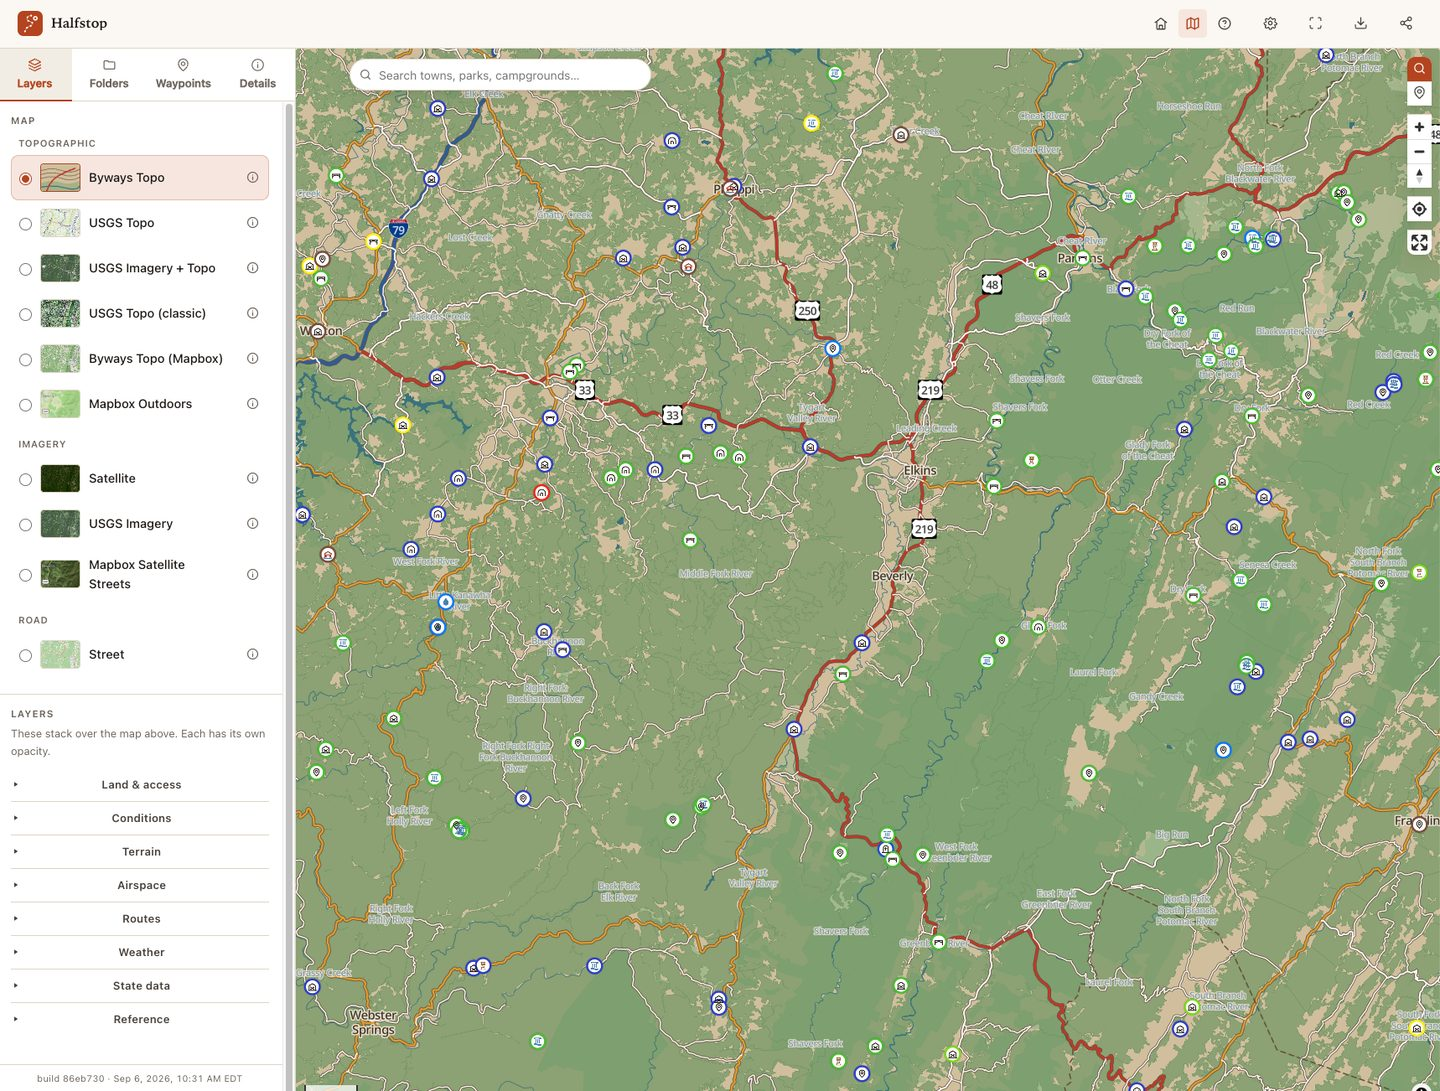
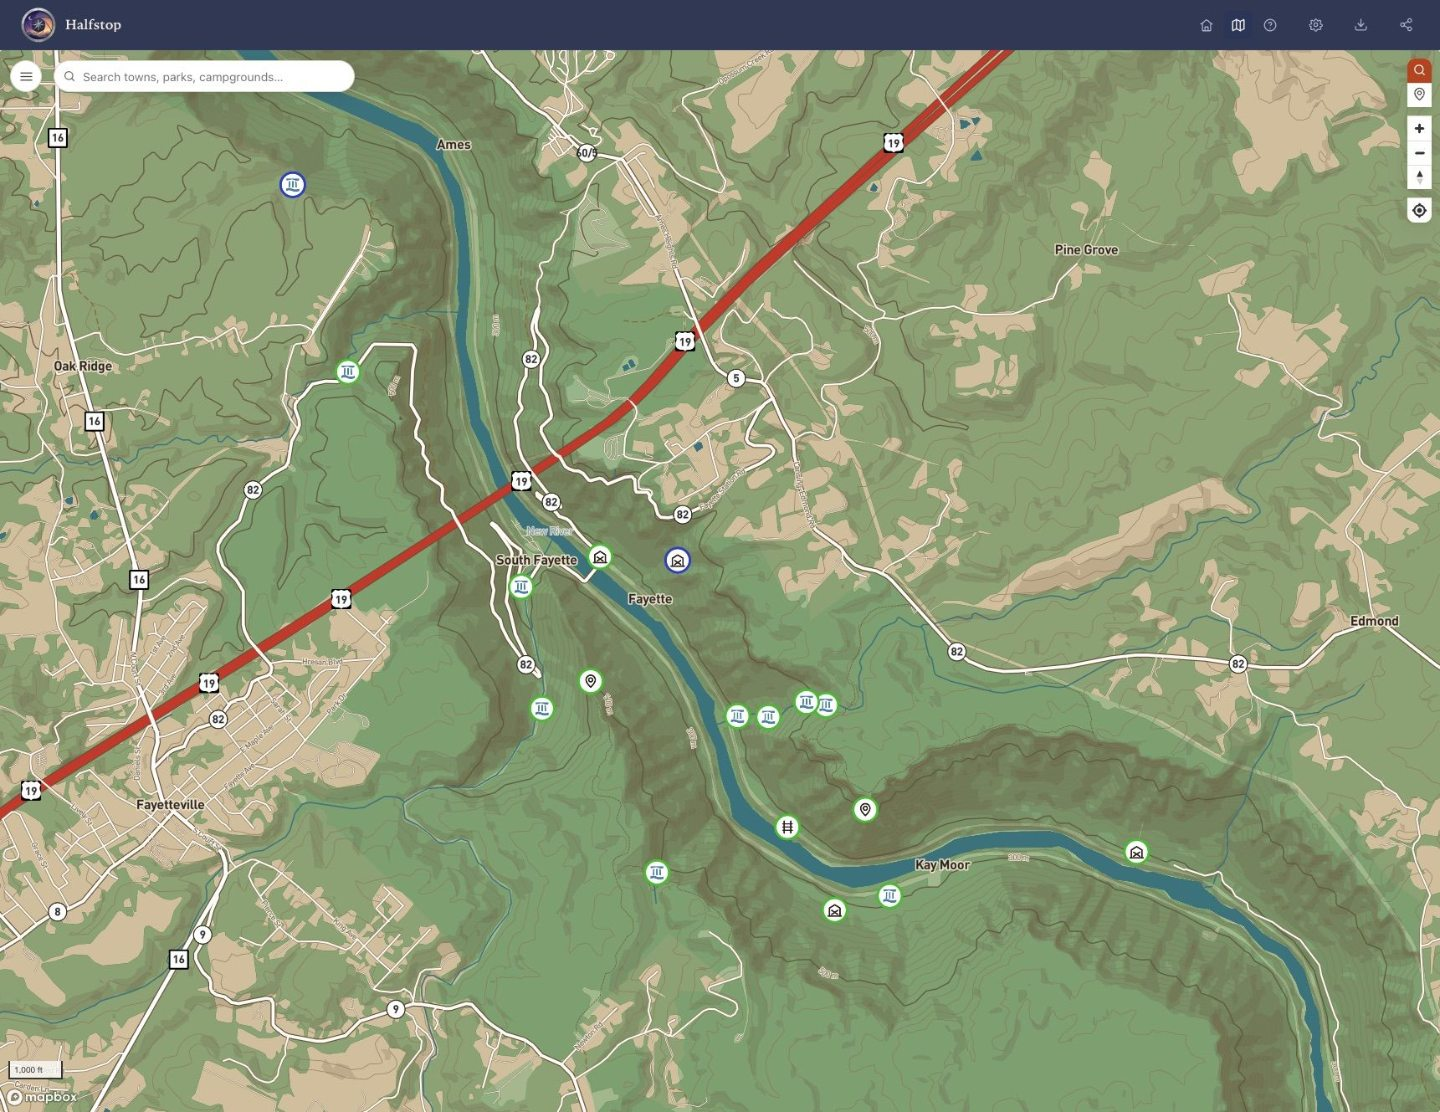
Bring in the portrait and the refreshed screenshot
Both files arrived; this is the wiring.

THE SCREENSHOT

The new one is the New River Gorge around Fayetteville rather than the
country near Elkins, so the alt text is rewritten - it described a place
the picture no longer shows, which is worse than no description for
anybody reading it aloud.

Re-encoded to 1440 wide, which is what index.html has declared and
shipped all along, and the height moves 1091 -> 1112 because the new
frame is a different shape. Those attributes are not decoration: they
reserve the box before the bytes land, and a wrong pair is the layout
shift they exist to prevent. 375 KB -> 284 KB.

Done with the app's own lib/photo-encode.js rather than a second
implementation of resize-and-squeeze. It gave a quality of 0.83 against a
300 KB budget, which is the right end of the range for a picture whose
whole job is legible map labels.

THE PORTRAIT

Already the right size as supplied - 1066 px wide, against a figure that
is 236 CSS px on a desktop and about 342 px full width on a phone, which
at 3x is a shade over 1000 device pixels. The encoder was pointed at it
anyway and returned it untouched, which is the fast path doing exactly
what it is for: an image inside both limits is not re-encoded slightly
worse to save nothing.

A first pass squeezed it to 140 KB at quality 0.60 and that was the wrong
trade. It is a photograph of a person, viewed near 1:1 on a phone, and 48
KB is not worth visible mush in the bokeh.

AND THE FLOAT IT SITS IN
[…]

diff --git a/assets/css/site.css b/assets/css/site.css
@@ -676,8 +676,18 @@ input[type="search"]:focus, select:focus { border-color: var(--clay); outline: n
 .legal-section li, .about-section li { color: var(--ink-2); line-height: 1.6; }
 .legal-section b, .about-section b { color: var(--ink); }
 
+/* The column contains its own floats.
+
+   Without this the portrait - taller than the few lines of text it sits
+   beside - hung straight out of the bottom of its section and over the
+   footer, with the caption landing on the dark band. `flow-root` makes the
+   column a block formatting context, which is the modern way of saying the
+   float cannot escape it. */
+.about-wrap { display: flow-root; }
+.about-section { display: flow-root; }
+
 /* The portrait. Floated beside the text on a wide screen and full width on a
-   phone, and it removes itself when the file is not there - see about.html. */
+   phone, and it reveals itself only when the file loads - see about.html. */
 .about-portrait { margin: 0 0 18px; }
 .about-portrait img {
   display: block; width: 100%; height: auto;

diff --git a/index.html b/index.html
@@ -131,10 +131,10 @@
         <!-- Sized, so the row below it does not jump when the picture lands,
              and lazy because it sits under the fold on every screen this has
              two columns on. -->
-        <img src="assets/img/app-screenshot.jpg" width="1440" height="1091"
+        <img src="assets/img/app-screenshot.jpg" width="1440" height="1112"
              loading="lazy" decoding="async"
-             alt="Halfstop showing topographic mapping around Elkins, West Virginia, with saved
-                  waypoints and the layer list open.">
+             alt="Halfstop showing the New River Gorge around Fayetteville, West Virginia, with
+                  saved waypoints along the river and US 19 crossing the gorge.">
       </figure>
     </div>
   </section>

diff --git a/about.html b/about.html
@@ -139,7 +139,7 @@
       -->
       <figure class="about-portrait" hidden>
         <img src="assets/img/sherman.jpg" alt="Sherman Cahal, sitting on a boulder in an autumn hardwood forest."
-             width="1080" height="1620" decoding="async"
+             width="1066" height="1599" decoding="async"
              onload="this.closest('figure').hidden = false">
         <figcaption>Sherman Cahal</figcaption>
       </figure>
